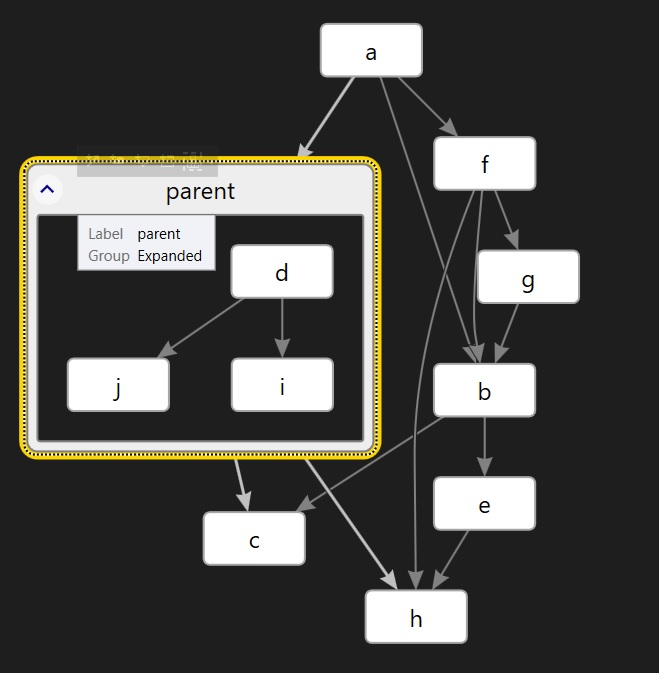
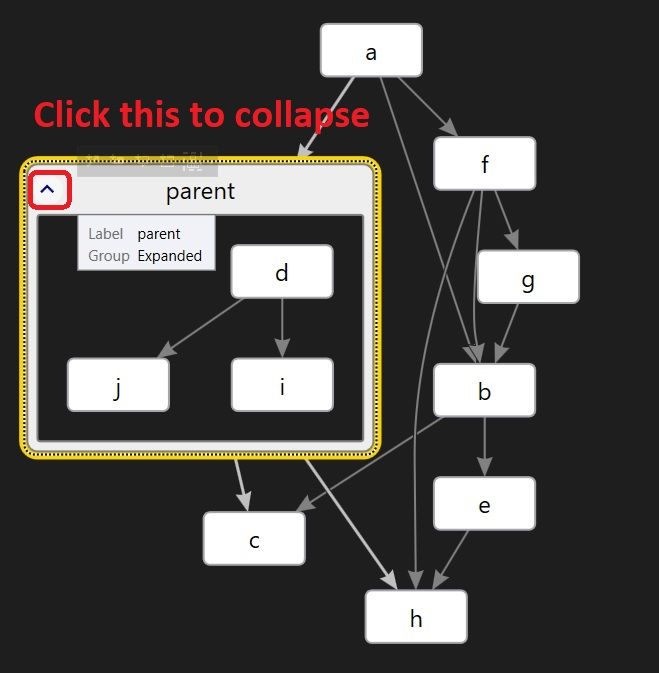
Added more info

Changed region(s): [[0.0303, 0.1248, 0.5766, 0.2184], [0.0303, 0.2496, 0.1214, 0.312]]

diff --git a/src/tasks/300500-NodesGrouping/ReadMe.md b/src/tasks/300500-NodesGrouping/ReadMe.md
@@ -2,7 +2,7 @@
 
 ## Notes
 
-1. Add the following links.
+1. This example, extends earlier example. In a new dgml file, add the following.
 
 ```xml
 <Links>
@@ -23,7 +23,7 @@
 </Links> 
 ```
 
-2. Ctrl + Click to select multiple nodes. Select d, i, j. 
+2. From visual studio 2022, Ctrl + Click to select multiple nodes. Select d, i, j. 
 
 ![Select Multiple nodes](images/50_50_MultiSelectNodeGroupling.jpg)
 
@@ -31,7 +31,9 @@
 
 ![Add group name](images/51_50_GroupNaming.jpg)
 
-4. Now observe the dgml file in vs code for text changes. A parent id is adde, three new links, and also a category.
+4. You can collapse and expand the group(or parent), see the image above.
+
+5. Now observe the dgml file in vs code for text changes. A parent id is adde, three new links, and also a category.
 
 ```xml
 <Node Id="Parent" Bounds="-3.92087878540766,67.4905382113251,170.93856,141.85856" Group="Expanded" Label="parent" />
@@ -50,6 +52,12 @@
 ```
 
 5. This is an excellent way to collapse complexity in big graphs. 
+
+6. Expand and select any node inside the parent group. You can see the links as follows. Take a look at this https://youtu.be/wIjCdOrZj-I?t=270
+
+![Select inside the gourp](images/52_50_SelectInsideGroup.jpg)
+
+
 
 ## References
 1. https://youtu.be/wIjCdOrZj-I?t=260

diff --git a/src/tasks/300400-ExploringDgmlFile/ReadMe.md b/src/tasks/300400-ExploringDgmlFile/ReadMe.md
@@ -1,7 +1,7 @@
 # Exploring dgml file.
 
 ## Notes
-1. Executes the commands in the commands.sh file, to open the project file.
+1. Execute the commands in the commands.sh file, to open the solution file `ExploringDgmlFile` using visual studio 2022.
 
 2. Add a new dgml file.
 
